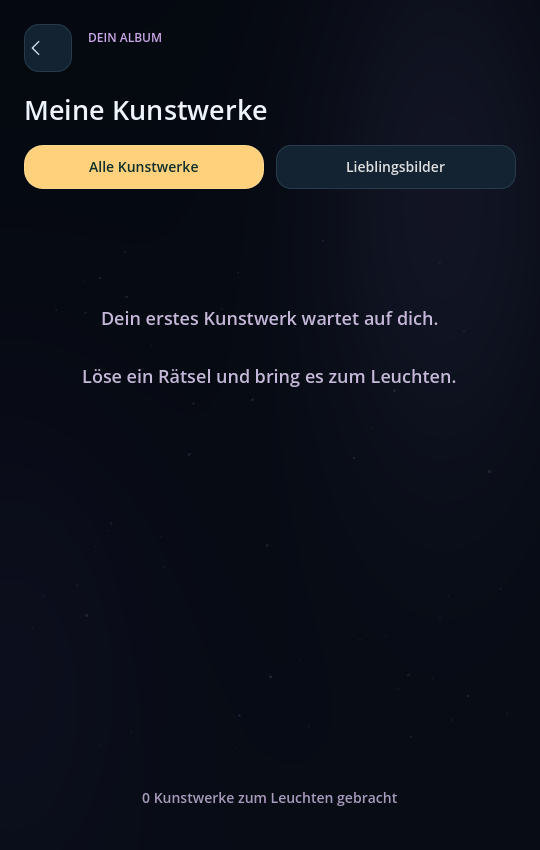
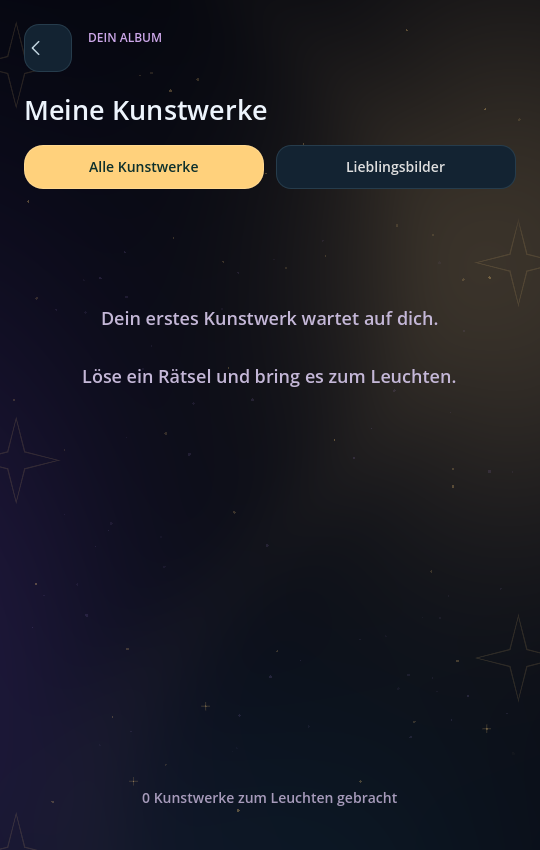
Give home and journey a colorful atmospheric light world

diff --git a/README.md b/README.md
@@ -8,7 +8,9 @@ Ein spielbares Godot-Puzzle mit leuchtenden, gerundeten Pfeilpfaden. Die Motive 
 
 Godot **4.x Standard** verwenden; geprüft mit **4.7.2**, GDScript und Compatibility-Renderer. `project.godot` importieren und **F5** drücken. Die ausführliche deutsche Anleitung steht in [START.md](START.md).
 
-## Aktueller Stand · 0.17.3-dev
+## Aktueller Stand · 0.17.4-dev
+
+- **Lichtwelt für Startseite und Reise**: Farbiger Lichtnebel, ruhige Sternpunkte und feine Konturen am Rand. Die Atmosphäre wechselt entlang des Pfads mit der Themenwelt; Hintergrundkonturen bewegen sich beim Scrollen langsamer als die Stationen. Nach dem ersten Abschluss zeigt die Startseite das zuletzt gelöste veröffentlichte Kunstwerk mit sanftem Leuchten und direktem Zugang zum Album. Der Spielstart bleibt separat erreichbar. Hintergrundelemente fangen keine Eingaben ab und verraten keine gesperrten Unterkategorien.
 
 Der Menüumbau liegt auf `feature/neon-progression-map`; `main` bleibt bei der vorherigen Version.
 
